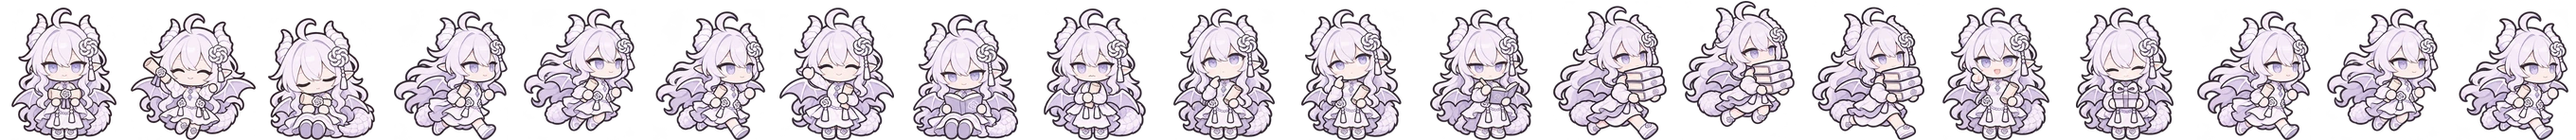
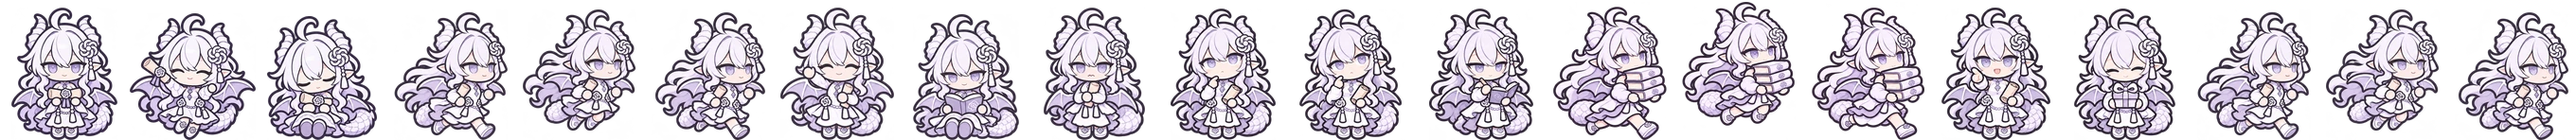
迷你小帮手：GPT 换上加粗轮廓的新版，连体衣有了自己的小帮手、跑着走不飞
GPT 原版 v2、连体衣 v3（更多 v4）切成 mini.webp。连体衣的翅膀只是衣服上的装饰，
穿着它、用它自己那套图时按跑步走（MOVE_SKIN）；借原版图时照原版飞。

Changed region(s): [[0.0, 0.0, 1.0, 1.0]]

diff --git a/app/web/mini-helper.js b/app/web/mini-helper.js
@@ -259,9 +259,12 @@ html.tucked .mini { visibility: hidden; }`
     }
   }
 
-  // 移动方式按原版：gpt 飞，deepseek 游，gemini、glm 扑，其他跑
+  // 移动方式按原版：gpt 飞，deepseek 游，gemini、glm 扑，其他跑。
+  // 皮肤另说的（MOVE_SKIN）：穿着它、用的又是它自己那套图时按皮肤的。连体衣的翅膀只是衣服上的装饰，跑着走不飞；
+  // 皮肤没有自己的图、借原版那套时，帧是原版画的，照原版的走
   const MOVE = { gpt: 'fly', deepseek: 'swim', gemini: 'pounce', glm: 'pounce' }
-  const moveOf = id => MOVE[id] || 'run'
+  const MOVE_SKIN = { 'gpt-onesie': 'run' }
+  const moveOf = (id, c) => (c && c.skin && MOVE_SKIN[c.skin] && c.poses && c.poses.mini && c.poses.mini[0] ? MOVE_SKIN[c.skin] : MOVE[id] || 'run')
 
   // 小帮手的图：先看姿态 mini；没有且穿着皮肤，就把皮肤目录的 idle 路径换成原角色的 mini.webp；都没有就是没有
   function sheetOf(id, c) {
@@ -285,7 +288,7 @@ html.tucked .mini { visibility: hidden; }`
   const MAX_CREW = 6
   function crew(receiver, { store = {}, manifest = {}, today = '', levelOf = () => 0 } = {}) {
     const chars = (manifest && manifest.characters) || {}
-    const entry = id => ({ id, sheet: sheetOf(id, chars[id]), move: moveOf(id) })
+    const entry = id => ({ id, sheet: sheetOf(id, chars[id]), move: moveOf(id, chars[id]) })
     const self = chars[receiver] && !chars[receiver].egg ? entry(receiver) : null
     const mine = self && self.sheet ? [self] : []
     const friends = []

diff --git a/tests/mini_helper.test.js b/tests/mini_helper.test.js
@@ -78,6 +78,14 @@ test('move_of', () => {
   assert.equal(M.moveOf('gpt'), 'fly'); assert.equal(M.moveOf('deepseek'), 'swim')
   assert.equal(M.moveOf('gemini'), 'pounce'); assert.equal(M.moveOf('glm'), 'pounce'); assert.equal(M.moveOf('kimi'), 'run')
 })
+// 连体衣的翅膀只是衣服上的装饰（loki 定的）：穿着它、用它自己那套图时跑着走，不飞
+test('onesie_runs_instead_of_flying', () => {
+  const onesie = { skin: 'gpt-onesie', poses: { idle: ['…/gpt-onesie/idle.webp'], mini: ['…/gpt-onesie/mini.webp'] } }
+  assert.equal(M.moveOf('gpt', onesie), 'run')
+  const m = { characters: { ...manifest.characters, gpt: onesie } }
+  assert.equal(M.crew('claude', { store: { 'claude+gpt': S(200) }, manifest: m, today: '2026-11-20', levelOf: lv })[1].move, 'run')
+  assert.equal(M.moveOf('gpt', { skin: 'gpt-other', poses: { mini: ['…/gpt-other/mini.webp'] } }), 'fly')   // 别的皮肤照原版
+})
 
 // ---- 一组：站位、干活分工 ----
 test('spots_stay_inside_canvas_and_apart', () => {
